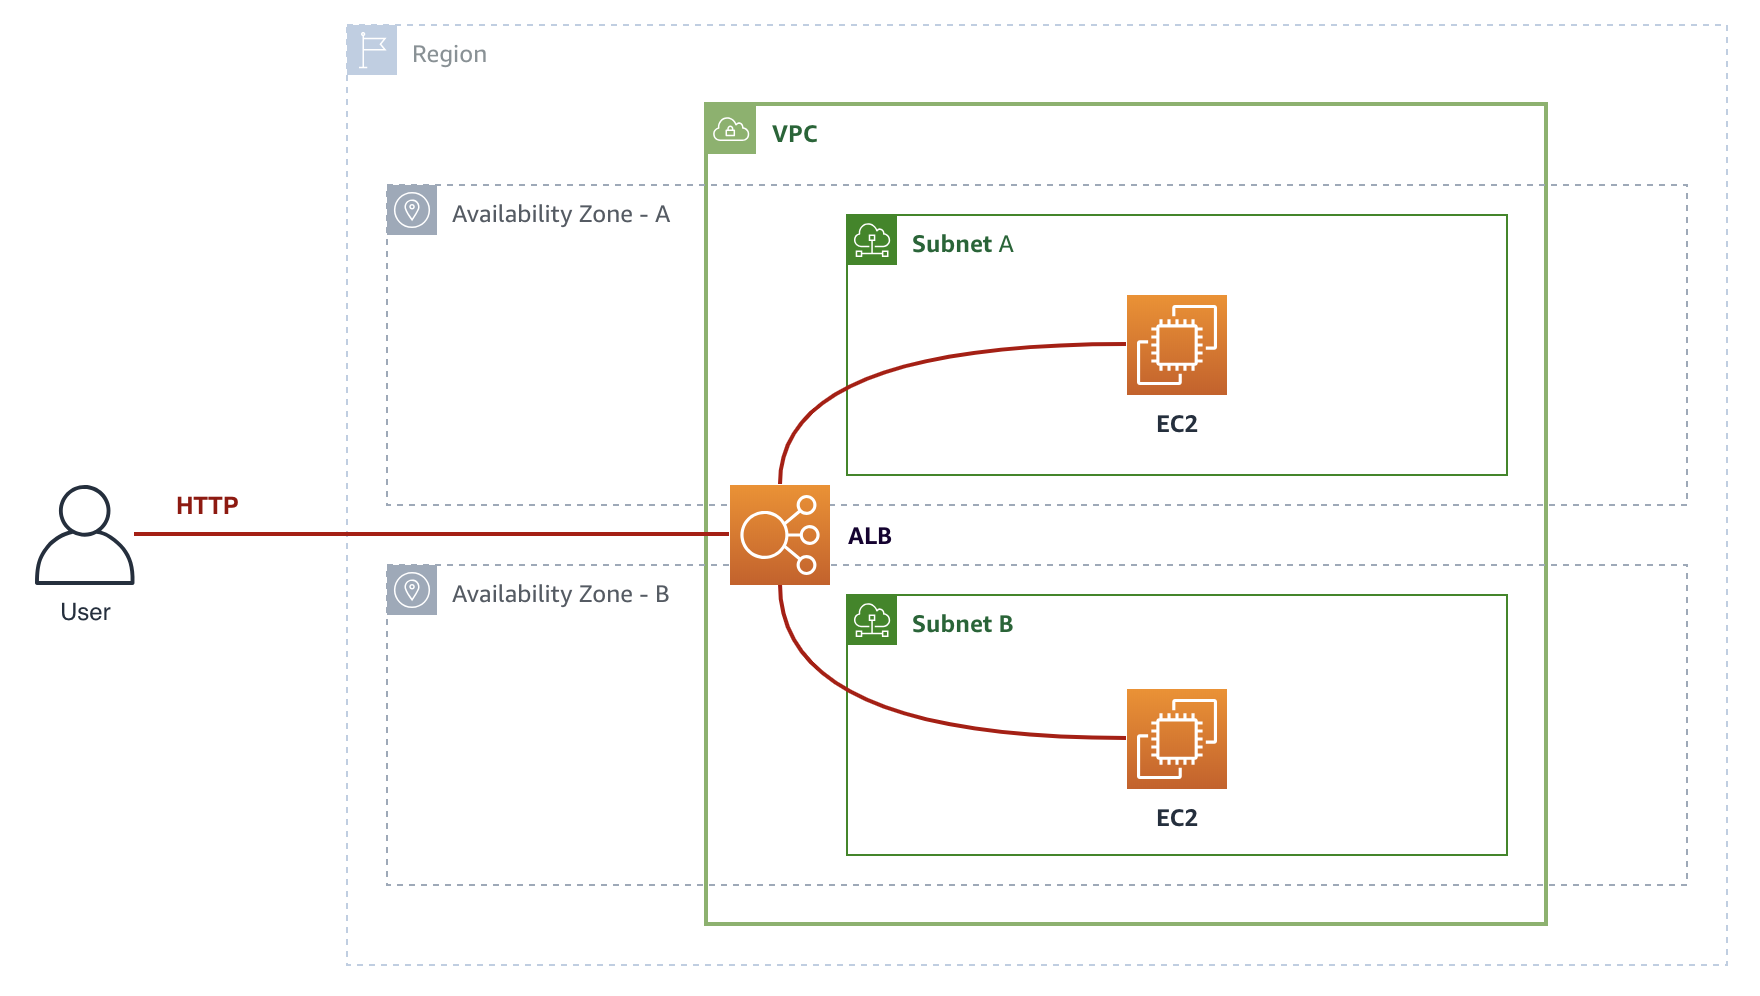
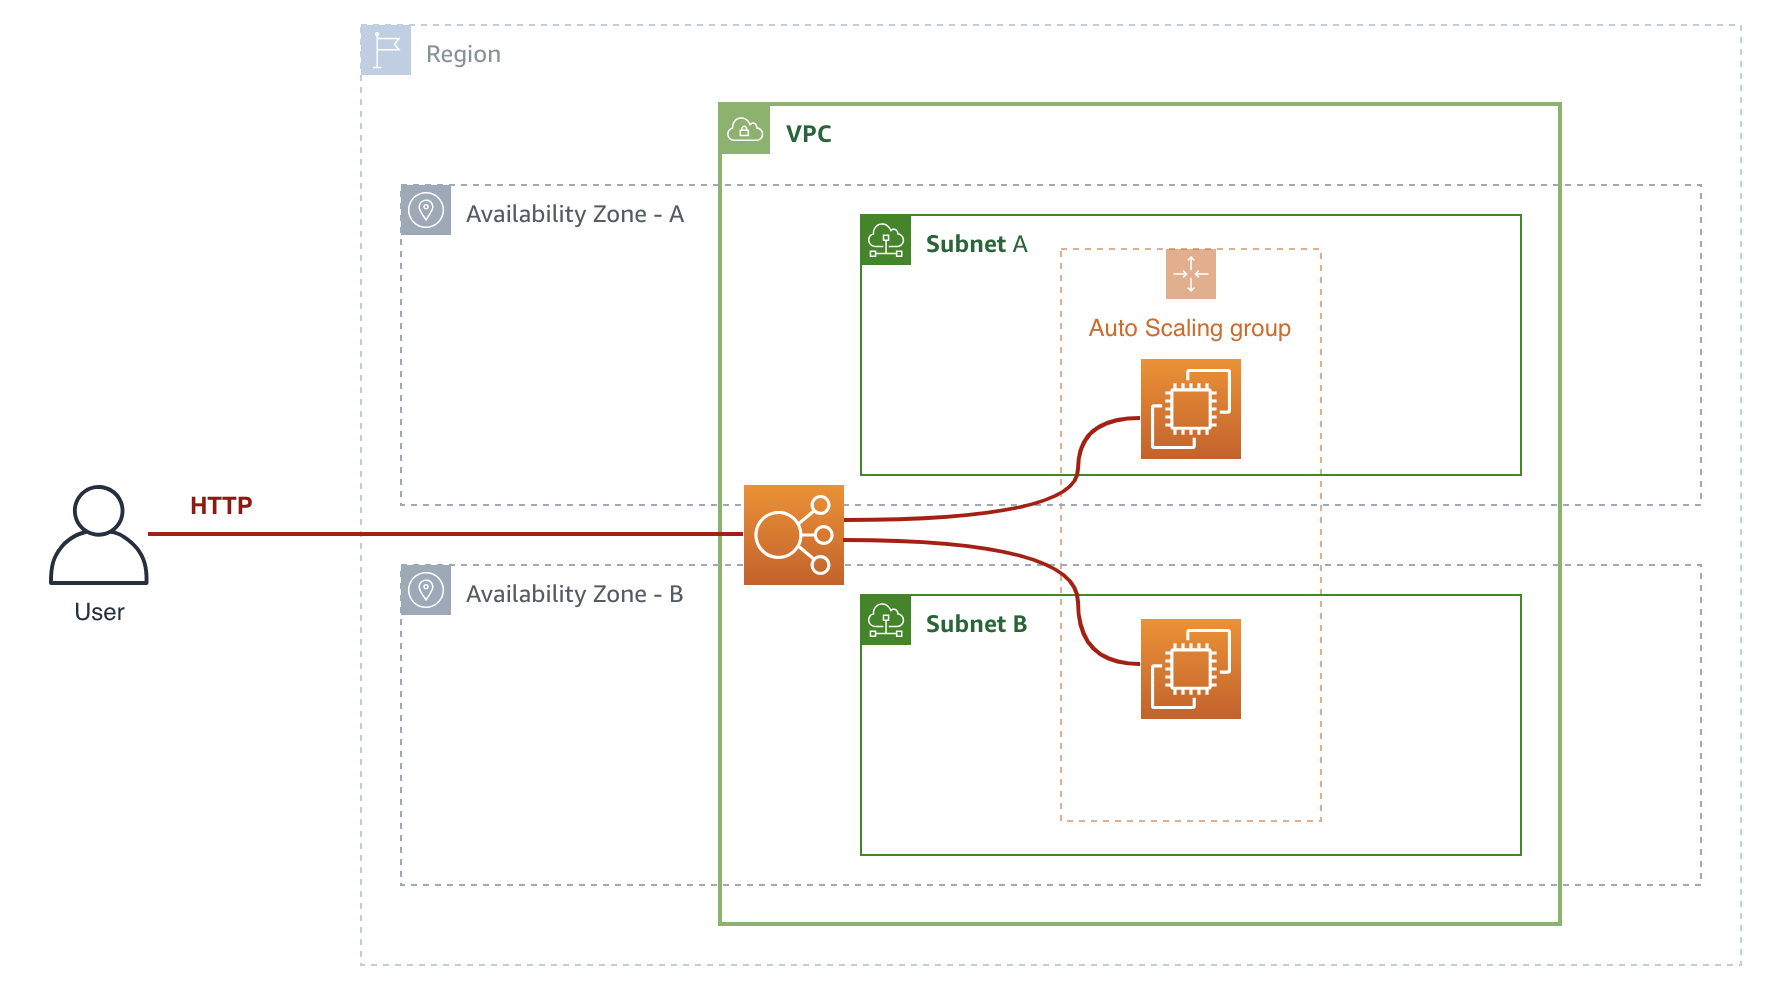
Initial draft for module 03 README.

diff --git a/README.md b/README.md
@@ -1,196 +1,205 @@
-Module 2: Augment your web application with load balancing
+Module 3: Improve scalability with auto-scaling
 ===
 
-In this module, we'll talk about how you can use load balancing to scale out applications
-across multiple instances. Being able to scale your workloads out is essential in 
-running applications that can rapidly adapt to changing real-time demand.
+In this module, we'll look into improving our load-balanced architecture by introducing auto-scaling.
+Auto-scaling allows your architecture to automatically adapt to real-time changing demand.
+For example, if your servers are experiencing heavy load, auto-scaling can automatically add
+more servers behind your load balancer to help manage load.
+
+This same technology can also be used to automatically refresh / replace instances that have been
+determined to be unhealthy, based on rules you provide. For example, if a server becomes unresponsive or 
+otherwise completely crashes, auto-scaling can replace that instance with a new one. 
+
+All of this happens without human intervention, so nobody needs to wake up at 3 AM to respond to 
+system failures.
 
 
 ## Solution Architecture
 
 We'll be building off the previous module's architecture.
 The web application will function in exactly the same way, except that after this module,
-we'll be using multiple instances to run multiple web servers.
-
-A load balancer will be deployed to receive HTTP requests.
-It will also be responsible for delegating the requests across all the web servers behind it.
+our load balancer will serve requests to a dynamic fleet of web servers, completely managed 
+by auto-scaling.
 
 ![architecture](__assets/architecture.png)
 
-You can extend the same architecture by adding more instances if you'd like.
-**By deploying across multiple availability zones**, you can take advantage of the 
-[AWS global infrastructure](https://aws.amazon.com/about-aws/global-infrastructure/),
-and introduce more durability and resilience to your applications.
+Notice that the architecture hasn't really changed since the last module --- we're just 
+augmenting our web server fleet with auto-scaling.
+
 
 ## Implementation Overview
 
 Make sure you're using the same application as from the previous module.
 
-### 1. Create an AMI of your web server
+### 1. Create an Auto-scaling group.
 
-Once you've created an EC2 instance and set it up according to your liking, you can
-**create an image of it for future use** (called an AMI). This way, when we need to create a copy
-of your instance, you won't need to go through all the steps you went through the first time.
+An auto-scaling group (ASG) automatically manages your fleet of EC2 instances for you.
+It follows a set of policies that you set to determine how many instances to add or remove from your fleet,
+and when it should do that (for example, it can add 2 instances automatically in response to a spike in network traffic).
 
-#### High-level instructions
+ASGs also monitor the health of your instances, so it can automatically replace instances when they become inoperable.
 
-Create an AMI of the web server you created in Module 01.
+Finally, ASGs can also automatically deploy instances behind a load balancer, by assigning instances
+in a specific target group on creation. (Remember from the last module that load balancers distribute
+traffic between all instances inside a target group.)
 
-<details>
-  <summary><strong>Step-by-step instructions (click to expand):</strong></summary>
-  <p>
-1. In your EC2 dashboard, make sure the instance you created is selected.
+#### High-level Implementation
 
-2. Select **Actions > Image > Create Image** from the top menu.
+Create an auto-scaling group using a new launch configuration. The launch configuration should use 
+the AMI you created, deployed onto `t3.micro` instances, and have the same user-data startup script
+as the previous module. Ensure instances use the security group you created, and have
+detailed monitoring enabled.
 
-   ![create image](__assets/create-ami.png)
+Configure the auto-scaling group to start with just **1** instance, and have it deploy into all
+available public subnets in your VPC.
 
-3. Give your AMI a unique name you'll easily remember (and optionally a description), and set the same **10GB** of storage as before, then click **Create Image**.
+Opt to have the ASG use your load balancer from the previous module, with a health check grace period
+of about 60 seconds.
 
-4. The AMI creation process will take a while. You can verify this by going to **AMIs** on the left-hand navigation
-   of your EC2 dashboard, and waiting until the status turns to `available`.
-  </p>
-</details>
-
-
-### 2. Create a second EC2 instance using your image
-
-If you remember when you created your first EC2 image, you actually had to select an AMI for your first step.
-AWS maintains a curated set of barebones AMIs for you to use, but you can also use your own.
-
-In this step, we'll use the AMI you just created to start a copy of your web server.
-
-#### High-level instructions
-
-Create another EC2 instance using your new AMI.
-Make sure that the EC2 instance is in a different **public** subnet as your first one.
+Have the ASG maintain an average of 50% CPU load across the fleet.
 
 <details>
-  <summary><strong>Step-by-step instructions (click to expand):</strong></summary>
+  <summary><strong>Step-by-step directions (click to expand):</strong></summary>
   <p>
-    
-1. Follow the steps [in Step 1 of Module 01](../tree/module-01#1-create-an-ec2-instance), but do the following:
+1. Navigate to **Auto Scaling Groups** on the left-hand navigation of your EC2 dashboard.
+   Click **Create Auto Scaling group** at the top of the resulting screen.
 
-    1. In `Step 1`: Select **My AMIs** on the left, and select the AMI you just created.
-    2. In `Step 3`: Use the same **Network**, but select a different **Subnet** than your first instance. 
-      The subnet of your first instance is visible in the Description tab when you select it on the dashboard.
-      
-      ![EC2 instance subnet](__assets/ec2-subnets.png)
-      
-    3. Also in `Step 3`: at the very bottom in **Advanced Settings**, add in the following startup script:
-    ```
-    #!/bin/bash -xe
-    exec > >(tee /var/log/user-data.log|logger -t user-data -s 2>/dev/console) 2>&1
-    
-    curl https://raw.githubusercontent.com/creationix/nvm/master/install.sh | sh
-    source /.nvm/nvm.sh
-    
-    nvm install 8.10
-    nvm use 8.10
-    npm install -g forever
-    
-    git clone https://github.com/team-siklab/workshop-simple-webapp.git app
-    cd app
-    git checkout module-02
-    
-    npm install
-    forever start app.js
-    ```
+2. Select **Launch Configuration**, and opt to create a new launch configuration. Click **Next**.
 
-    4. In `Step 6`: Make sure you use the same security group as the one you created before.
-    5. For your keypair: opt to use an existing one, and use the keypair you created before.
+> ASGs can use both Launch Configurations and Launch Templates.
+> Templates give more options and fine-grained control over your ASGs provisioning, 
+> but we'll use Launch Configurations for this workshop. 
+> Launch Configurations, while older, are still full-functioned, and will illustrate ASGs 
+> just as well in this workshop.
 
-2. Once your EC2 instance is ready, confirm that you can visit your web server on it by visiting it's
-   **public IPv4 address** at port **3000**.
+3. Creating a new Launch Configuration looks like creating a new EC2 instance.
+   1. Opt to use your custom AMI.
+   2. Use a `t3.micro` instance.
+   3. Under **Launch Configuration**, give your configuration a name you'll remember.
+   4. Also opt in to Enable CloudWatch detailed monitoring.
 
-    ```
-    e.g.
+> Detailed monitoring, among other things, makes your CloudWatch metrics aggregate **per minute**,
+> instead of every 5 minutes by default.
 
-    http://52.221.0.100:3000
-    ```
-  </p>
-</details>
-
-
-### 3. Create an Application Load Balancer (ALB)
-
-We have three different kinds of load balancers in AWS --- ALBs make it easier to segregate 
-incoming HTTP/S requests across a fleet of servers behind it.
-
-We'll create an ALB, and add the two instances we currently have behind it to start routing traffic.
-We will also use this setup later when we get to automatically healing and scaling our infrastructure.
-
-#### High-level instructions
-
-Create an ALB and a target group, and add the two instances you already have into the target group.
-Ensure that the `:80` listener on the ALB redirects to the `:3000` listener on the servers.
-Confirm that the ALB is working by visiting its DNS name in a browser.
-
-<details>
-  <summary><strong>Step-by-step instructions (click to expand)</strong></summary>
-  <p>
-1. Select **Load Balancers** from the left-hand navigation of your EC2 dashboard, then click **Create Load Balancer** at the top.
+   5. Still in **Launch Configuration**, in Advanced Details, make sure you put in the User data startup script we used in Module 02.
+   ```
+   #!/bin/bash -xe
+   exec > >(tee /var/log/user-data.log|logger -t user-data -s 2>/dev/console) 2>&1
    
-2. Select **Application Load Balancer** as the type of load balancer to create.
-   Application Load Balancers (ALBs) is a level-7 load balancer that automatically scales to demand, 
-   and makes it easy to route HTTP/S requests to your servers.
+   curl https://raw.githubusercontent.com/creationix/nvm/master/install.sh | sh
+   source /.nvm/nvm.sh
+   
+   nvm install 8.10
+   nvm use 8.10
+   npm install -g forever
+   
+   git clone https://github.com/team-siklab/workshop-simple-webapp.git app
+   cd app
+   git checkout module-02
+   
+   npm install
+   forever start app.js
+   ```
 
-3. In `Step 1`:
+4. When prompted for the security group to use, make sure you select the SG you created for your fleet.
 
-   1. Give your ALB a unique name you'll remember.
-   2. Make sure you have a listener for `HTTP` onto port `80` of the load balancer.
-   3. Make sure the VPC is your default one, and opt to plce the ALB in all of the availability zones offered.
-   4. Leave everything else at the default.
+5. After confirming the Launch Configuration details, click **Create launch configuration**.
+   This will create the configuration, and you should be brought back into the ASG creation screen.
 
-4. Don't mind the warning on `Step 2`.
+6. Back in the **Create Auto Scaling Group** wizard, give your ASG a name you'll remember.
+   1. Opt to start the ASG with just **1** instance.
+   2. Make sure you're deploying into the VPC Network you've used for this workshop, and select all 3 public subnets available in that network.
+   3. Under **Advanced Details**, opt to receive traffic from load balancers, then select the target group you created in the previous module. 
+   4. Still under **Advanced Details**, switch the Health Check Type to `ELB`, and the grace period to only around `60` seconds.
 
-5. In `Step 3`: select the security group you also use for your instances. Confirm that it allows `HTTP` traffic on port `80` from anywhere.
+   ![auto scaling step 1](__assets/asg-step1.png)
 
-> **Note**: In real, practical use, you will probably want to use a different security group for your load balancers than the one you
-> use for your EC2 instances. This allows you to control the security of your network traffic flow better.
->
-> For example, you can allow `HTTP port 80` traffic on your load balancer from anywhere, but only allow `HTTP port 80` traffic 
-> from your load balancer to your EC2 instances, preventing anybody from directly accessing your web servers.
+7. In the next screen, opt to **Use scaling policies to adjust the capacity of this group**. This will let you use rules to dynamically control the number of instances within the ASG. Let's go with these:
+   1. Scale between `1` and `4` instances.
+   2. Let's leave **Metric Type** to `Average CPU Utilization`.
+   3. Target value at `50`.
+   4. Instances need `60` seconds to warm up after scaling.
 
-6. In `Step 4`: 
+   ![auto scaling step 2](__assets/asg-step2.png)
 
-  1. Opt to create a **new target group**.
-  2. Give your target group a unique name. It's probably a good idea to name it similarly to your ALB.
-  3. Keep target type to **Instance**.
-  4. Set protocol and port to `HTTP` and `3000`. These is where your web servers are listening in for incoming traffic.
-  5. For health checks, select `HTTP`, with the path set to `/hello`.
-  6. Under Advanced health check settings, set healthy threshold to `3`, and interval to `10`.
+8. `Step 3` allows you to configure notifications to let you know when scaling takes place. Let's skip this for now.
 
-7. In `Step 5`:
+9. For tags, add a `Name` tag with a value that you'll remember. You should be able to tell right away that
+   this EC2 instance was created by auto-scaling. Make it something only you will think of.
 
-   1. Look for your 2 instances from the bottom list, and select them.
-   2. Click **Add to Registered**. You should see both instances go up to the upper list.
-   3. Click **Next: Review**.
-
-8. Confirm your settings and then click **Create**. Your ALB will take a few minutes to provision and be ready for use.
-
-9. Your ALB will have a DNS name, viewable from the **Description** tab. When your ALB is ready, visit that URL using your browser,
-   and confirm that you're hitting one of the 2 servers you've prepared.
+10. When you're satisfied with everything, click **Create Auto Scaling Group** at the last step.
   </p>
 </details>
+
+
+### 2. Remove instances that aren't part of the ASG
+
+In a few minutes after creating your ASG (it'll need some time to warm up completely), it will start creating 
+new instances to satisfy the policies you gave it. You should see it create a new instance in a while.
+
+![asg new instances](__assets/asg-initial.png)
+
+1. Open your load balancer URL `/hello` from a browser, and keep refreshing. Confirm that you see at least 3 instances being hit by the load balancer traffic.
+
+2. On your EC2 console, terminate the **2 instances** you created from the past modules. You should be left with only the instances created by your ASG.
+
+3. Confirm that your web site is still viewable through the load balancer URL.
+
+
+### 3. Simulate heavy load
+
+Now that we've set up an auto-scaling group, let's see how our architecture performs under heavy load.
+This workshop uses [Blazemeter](https://blazemeter.com) to run load testing. If you have a personal preference, feel free to use that instead. BlazeMeter lets you run up to 10 tests per month for free, with some constraints.
+
+1. If you don't have a BlazeMeter account, create one on their site.
+
+2. Under **Projects**, create one for your tests. 
+
+3. Click **Create Test**, and select **Performance Tests**.
+
+4. At the top of the form, click **Enter URL/API Calls**. Use the URL of your load balancer with `/computation` fragment. This is a **GET** request.
+
+> e.g. `http://alb-209238178.ap-southeast-1.elb.amazonaws.com/computation`
+
+> **Note**: The app logic behind the `/computation` fragment is a deliberately computationally-expensive process. If you visit this page on your browser, there will be a subtle slowness in the response as it performs calculations in the server. On its own, it shouldn't be much, but when forced to perform the same calculation in bulk (like in this load test), the compute costs will eventually bring the server inoperable. 
+
+1. Under **Load Configuration**:
+  1. Set total users to `50`.
+  2. Set duration to the maximum of `20` minutes.
+  3. Set ramp up time to `1` minute.
+
+2. When you're satisfied with your settings, click the green **Run Test** button towards the left of the form.
+
+
+BlazeMeter will take a few minutes to prepare running your tests, then it will bombard your load balancer with HTTP requests for the next 20 minutes, while providing a nice visualization of the performance of your server during the test.
+
+During this time, take note of your instances and how they react:
+
+- Select an EC2 instance, then navigate to the **Monitoring** tab at the bottom. Keep an eye on what happens to your `CPU Utilization` as the test progresses. You can click on the graph to zoom it in.
+
+- You can also do the same with your load balancer.
+
+- If you navigate to your auto-scaling group, you can review the actions your ASG decide to take in the **Activity History** tab, monitor the instances managed by the ASG in the **Instances** tab, and check out CloudWatch graphs on **Monitoring**.
+
+
+During your load testing, you should see that the CPU utilization of your EC2 instances start spiking towards `100%` CPU utilization as the load test requests ramp up. Eventually you should see new EC2 instances get created by your ASG to help distribute the load.
+
+After the testing completes, your ASG will maintain your fleet size for a while to account for errant traffic, then after seeing that demand has gone down, it will also start removing EC2 instances to save you costs.
+
+Sample results will look like the following:
+
+![results before scale](__assets/loadtest-beforescale.png)
+
+![results after scale](__assets/loadtest-afterscale.png)
+
 
 
 ## Summary
 
-Application Load Balancers automatically distribute incoming requests to all the **healthy** targets inside the target group attached to it.
-The ALB takes care of routing to the instance's private IP addresses (even if they change) so you don't have to.
+Auto-scaling groups introduce automation into scaling and repairing infrastructure fleets on the AWS cloud.
+Because we are able to provision new resources so quickly on the AWS cloud, we don't have to think so much about how much capacity / resources we need in the future like in traditional IT infrastrucutre --- rather, we only want to know how much we need _right now_. We can always adjust to respond rapidly at any time. Auto-scaling groups make that whole process much easier by automating the process completely.
 
-![ALB routing to target group](__assets/alb-tg.png)
-
-Unlike physical hardware, ALBs also automatically scale to meet current demand.
-If your application is experiencing high volumes of network traffic, ALBs will automatically adjust to be able to address all that.
-
-In this module, you learned how to create an AMI, so you can repeatedly create copies of your instances,
-as well as how to create load balancers, so you can start scaling out your applications.
-
-In the next module, we'll make that architecture a bit more intelligent, and use auto-scaling
-to make our application adapt automatically to changing demand and usage, as well as be able to
-self-repair itself when the needs for it arise.
+In the next module, let's expand our web application a bit to use other AWS services.
 
 
-**Next:** [Improve scalability with auto-scaling](team-siklab/workshop-simple-webapp/tree/module-02)
+**Next:** [Using S3 to store file uploads](team-siklab/workshop-simple-webapp/tree/module-04)
